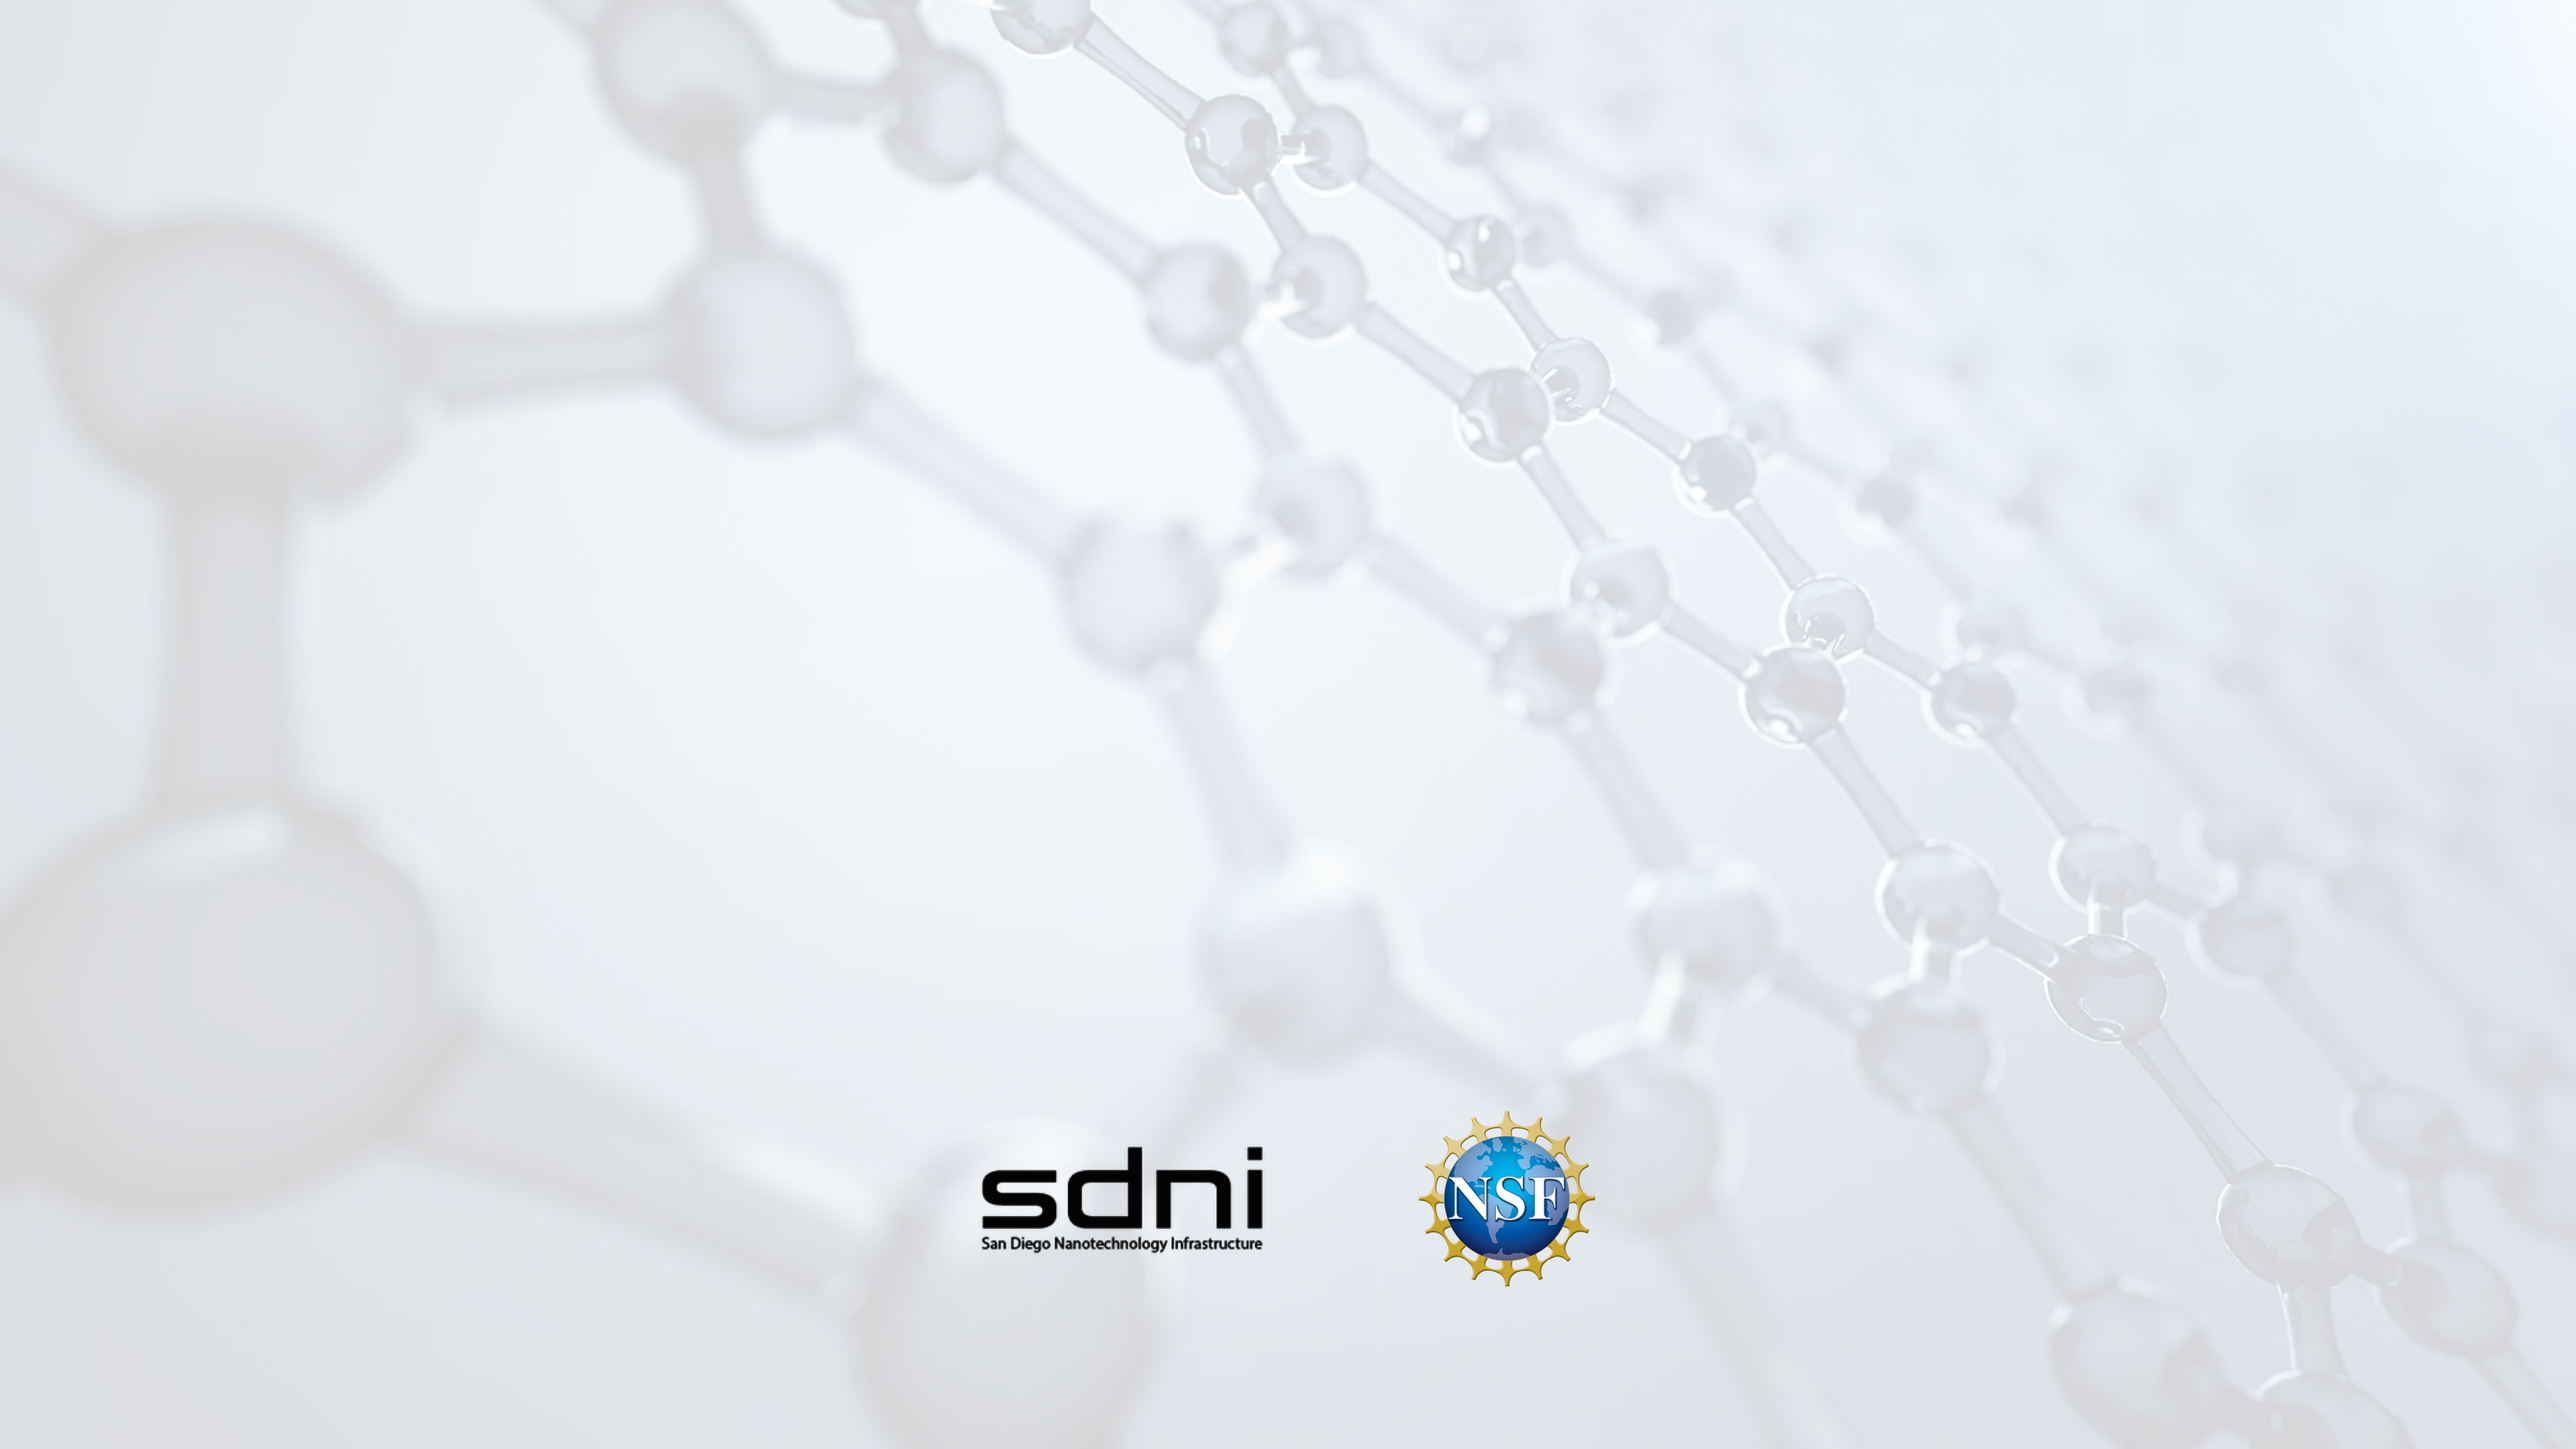
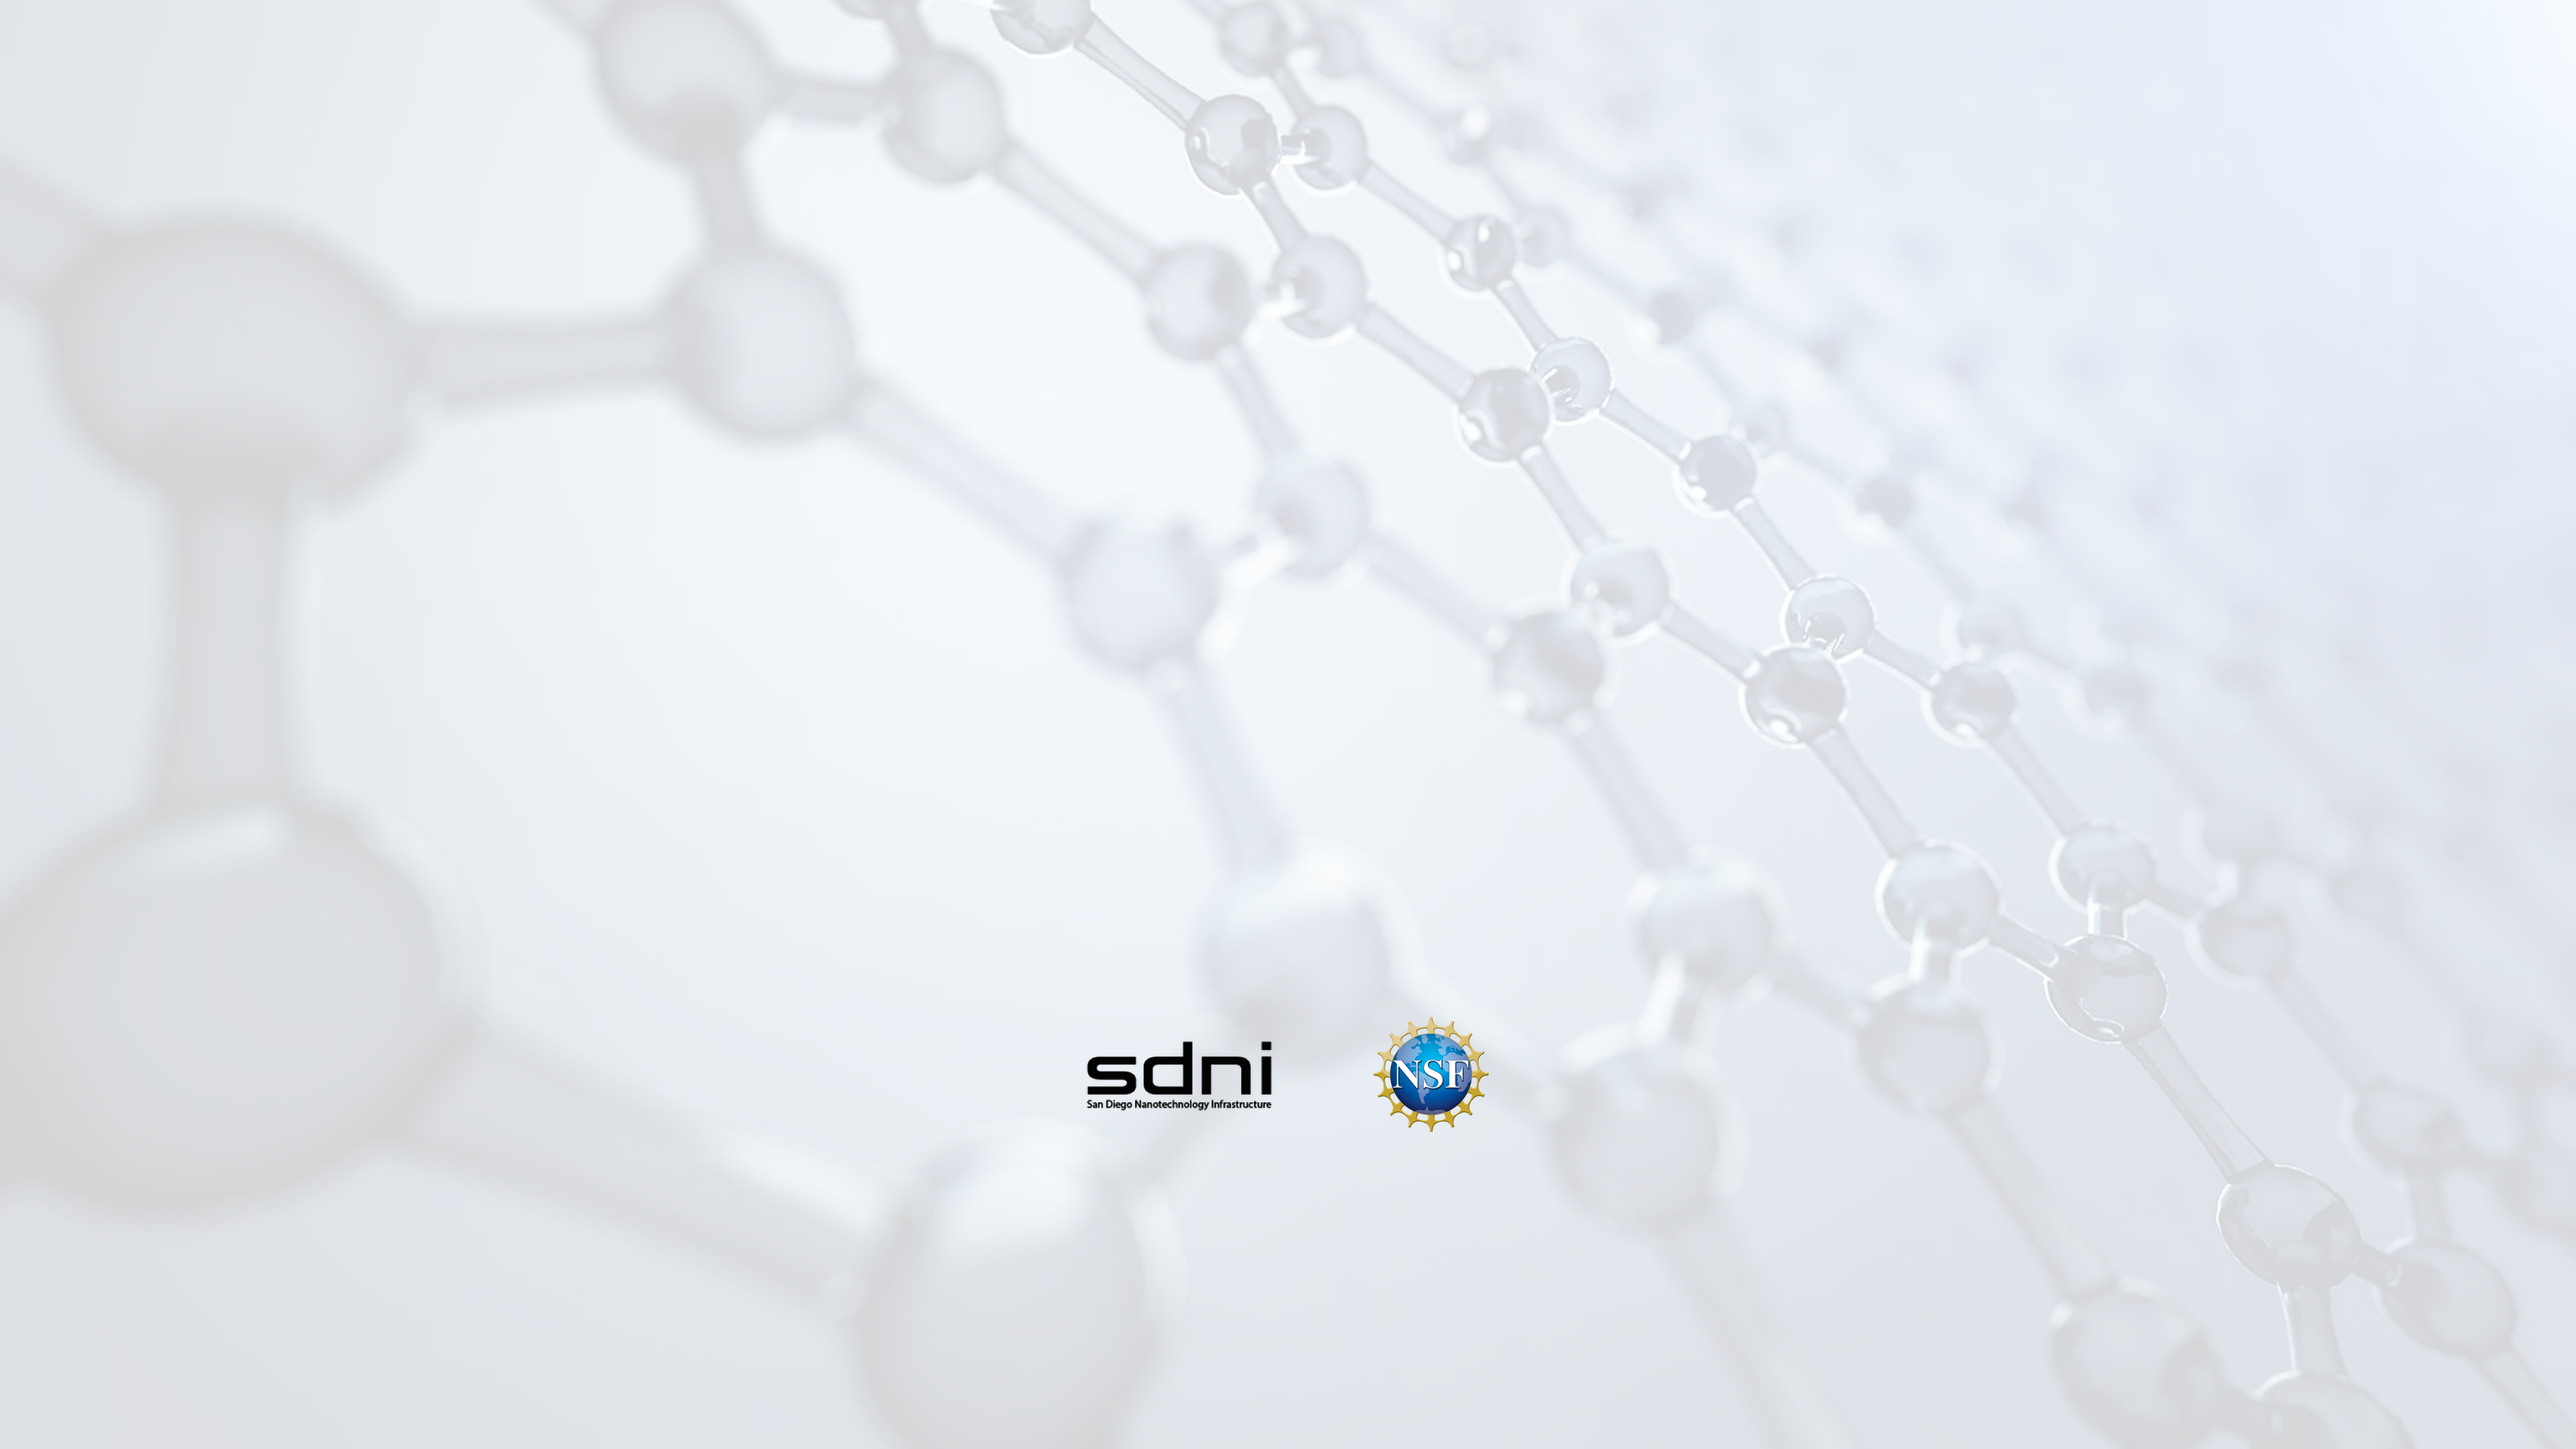
Update

Changed region(s): [[0.5312, 0.7134, 0.625, 0.8995], [0.375, 0.8065, 0.5, 0.8685], [0.4062, 0.7134, 0.5, 0.7755]]

diff --git a/home.css b/home.css
@@ -214,7 +214,7 @@ p{
 }
 .bg {
   /* The image used */
-  background-image: url("Image/homeBackground2.png");
+  background-image: url("Image/homeBackground3.png");
 
   /* Full height */
   height: 100%; 
